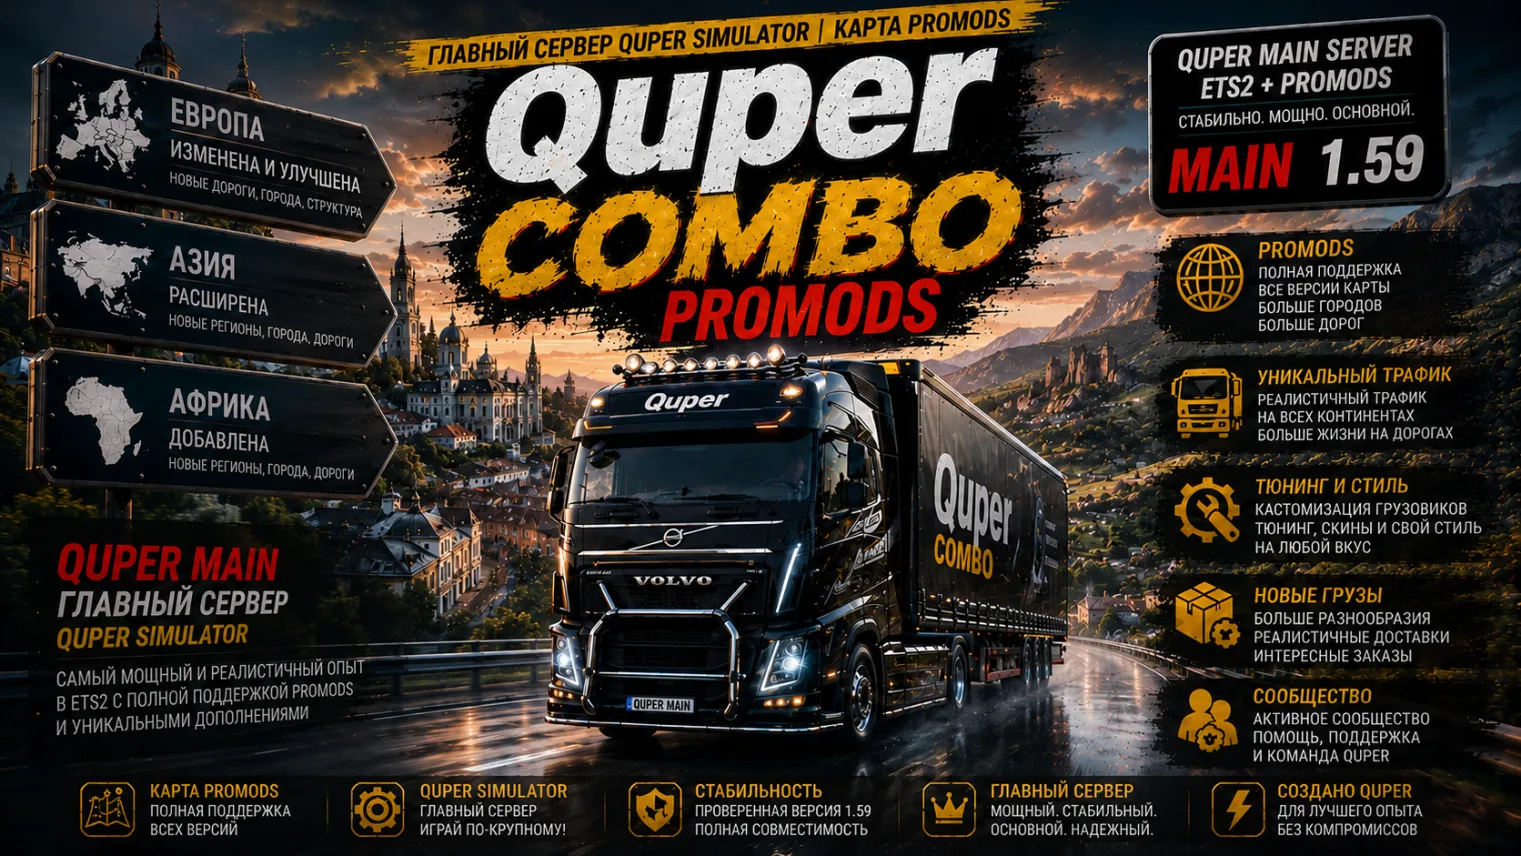
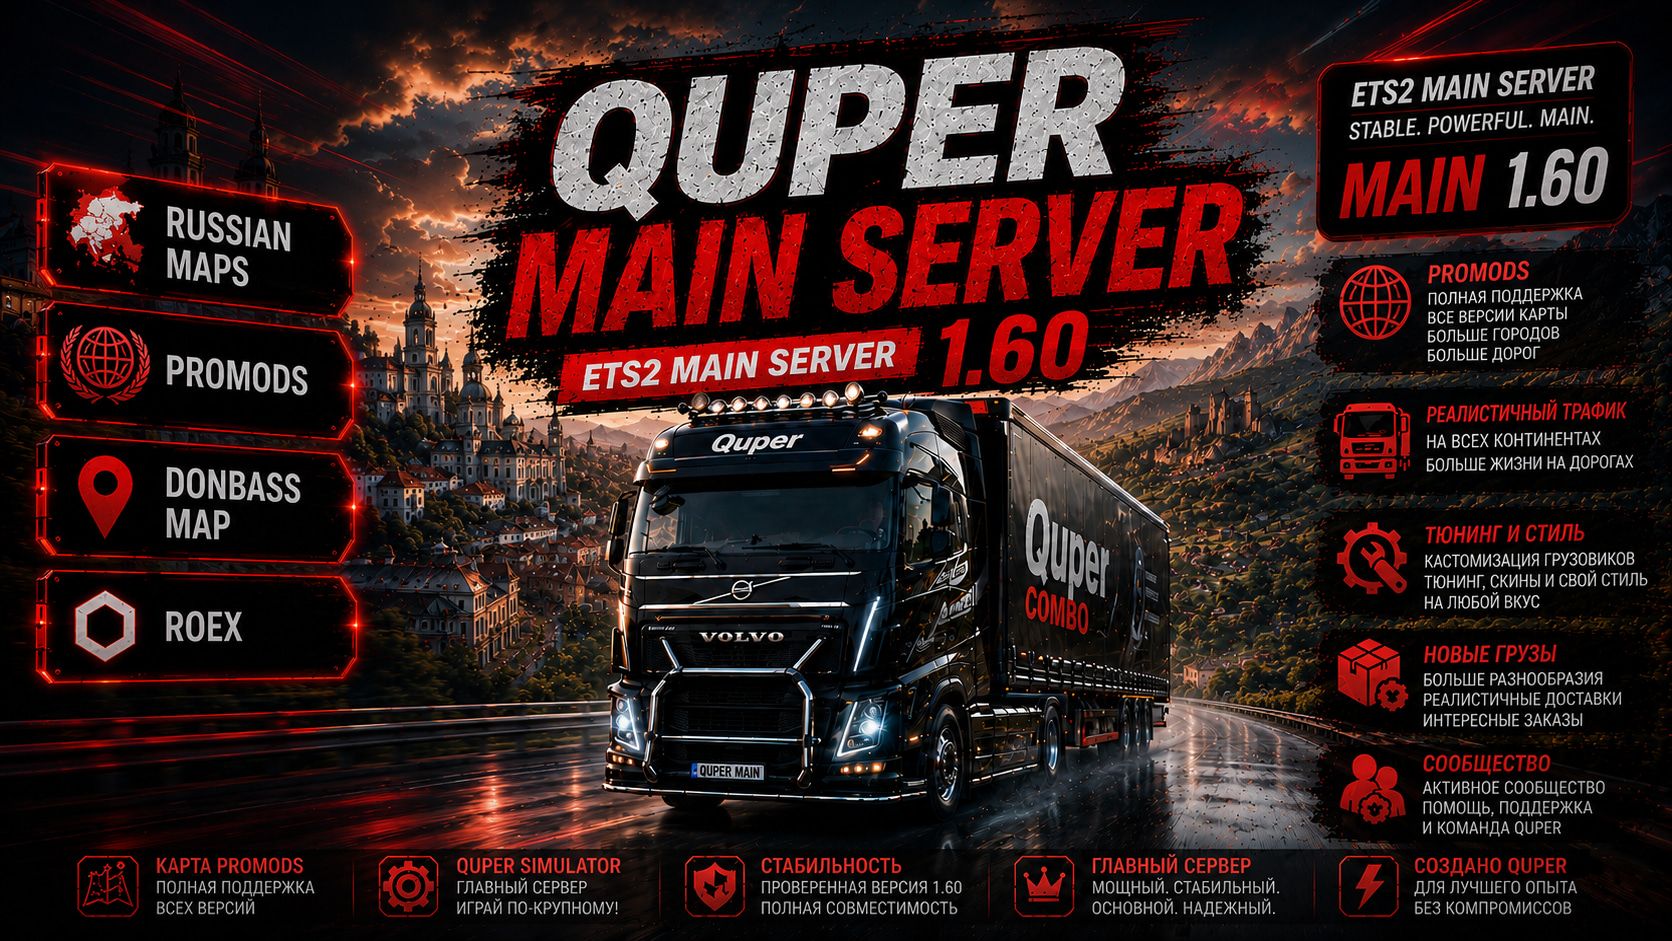
upd

diff --git a/src/data/combos/v1.59.js b/src/data/combos/v1.59.js
@@ -75,21 +75,7 @@ export const combos_v1_59 = [
     image_center: "img/combos/159/ets2-server/ets2-server-center.jpg",
     profile: "https://sharemods.com/s95mr7qntjvo/1.59_Quper_Main0609.zip.html",
   },
-  {
-    id: "ets2-server-light-159",
-    tags: ["ets2", "server", "convoy"],
-    title: "ETS2 QUPER COMBO LIGHT",
-    preview: "img/combos/159/ets2-server-light/ets2-server-light-preview.jpg",
-    video: "sPgKB8P63qM",
-    version_game: "1.59",
-    version: "85568392936116600/103",
-    date: "09.06.26",
-    image_center:
-      "img/combos/159/ets2-server-light/ets2-server-light-center.jpg",
-    profile: "https://sharemods.com/3c6natcnpk3h/1.59_Quper_Light0609.zip.html",
-    table:
-      "https://disk.yandex.ru/d/6CjeZS9OhcM-pg",
-  },
+  
   {
     id: "ets2-mod-combo-159",
     tags: ["ets2", "boosty"],

diff --git a/src/data/combos/v1.60.js b/src/data/combos/v1.60.js
@@ -32,6 +32,17 @@ export const combos_v1_60 = [
       "https://sharemods.com/jgkv64zq0hbz/1.60_ETS2_MEGA_MAP_COMBO_1.0.zip.html",
   },
   {
+    id: "ets2-server-map-160",
+    tags: ["ets2", "server", "convoy", "boosty"],
+    title: "ETS2 SERVER MAIN COMBO",
+    preview: "img/combos/160/ets2-server/ets2-server-preview.jpg",
+    version_game: "1.60",
+    version: "server",
+    date: "27.06.26",
+    image_center: "img/combos/160/ets2-server/ets2-server-center.jpg",
+    profile: "https://sharemods.com/pyvwvdixnl6p/1.60_ETS2_SERVEER_MAIN.zip.html",
+  },
+  {
     id: "gold-russia-map-160",
     tags: ["ets2", "convoy", "boosty"],
     title: "GOLD RUSSIA MAP COMBO",
